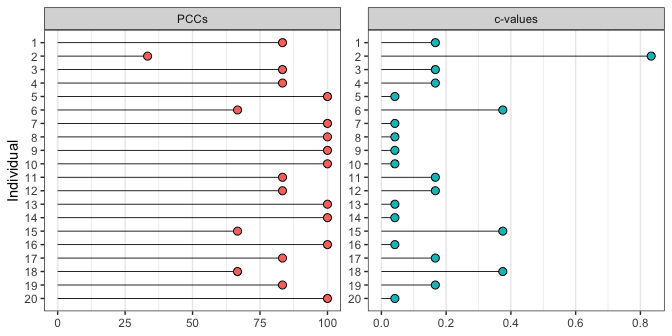
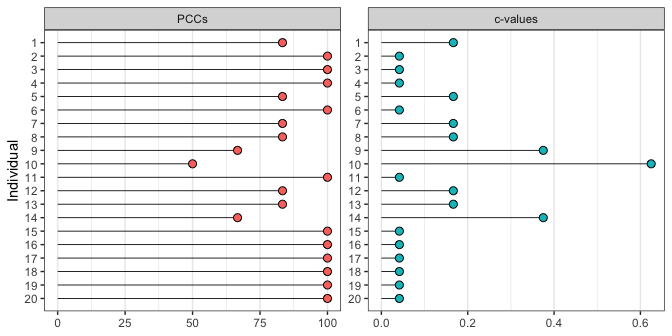
version 0.4.1

diff --git a/README.md b/README.md
@@ -110,26 +110,26 @@ dat <- data.frame(t1 = rnorm(20, mean = 12, sd = 2),
                   
 round(dat, 2)
 #>       t1    t2    t3    t4
-#> 1  12.43 16.39 21.53 14.82
-#> 2  15.53 15.64 15.17 12.37
-#> 3  13.65 14.98 20.52 13.99
-#> 4  13.57 16.42 20.86 15.72
-#> 5  13.78 14.06 19.75 15.97
-#> 6  15.49 12.33 18.99 13.29
-#> 7  12.25 17.65 19.95 17.98
-#> 8  10.79 17.26 23.43 18.16
-#> 9   6.07 12.65 20.89 17.49
-#> 10 10.36 12.70 18.33 17.95
-#> 11 11.54 16.29 21.32 14.61
-#> 12  8.75 14.91 21.72 14.40
-#> 13 13.50 14.65 19.72 17.39
-#> 14  7.71 15.53 20.21 16.93
-#> 15 13.07 21.14 20.35 16.84
-#> 16 11.22 12.52 18.18 15.86
-#> 17 12.83 18.32 20.05 20.54
-#> 18 12.65 18.58 18.01 15.54
-#> 19 12.09 14.27 15.63 20.98
-#> 20 11.12 11.65 19.95 16.68
+#> 1  12.49 18.16 18.76 14.47
+#> 2  10.88 15.39 18.68 16.17
+#> 3  11.96 16.60 19.78 16.75
+#> 4   9.35 12.99 21.88 17.26
+#> 5  13.98 12.20 18.06 16.92
+#> 6  12.84 16.71 18.34 18.34
+#> 7   9.96 14.49 17.07 20.46
+#> 8  12.13 15.54 18.14 14.57
+#> 9   8.85 15.32 14.13 17.38
+#> 10 11.81 17.94 16.55 17.65
+#> 11 11.30 12.79 18.68 17.43
+#> 12 15.29 14.53 19.84 17.54
+#> 13  6.82 16.04 19.50 19.95
+#> 14 13.14 16.23 23.17 12.59
+#> 15  7.88 11.99 22.48 16.64
+#> 16 13.71 14.38 20.54 14.76
+#> 17 13.71 14.88 20.16 17.22
+#> 18  9.94 13.24 21.07 20.81
+#> 19 13.84 13.87 20.78 15.74
+#> 20 14.69 16.51 21.95 17.55
 ```
 
 An ordinal pattern analysis model to consider how the hypothesis `h`
@@ -147,29 +147,29 @@ summary(opamod)
 #> 
 #> Between subjects results:
 #>          PCC cval
-#> pooled 85.83 0.17
+#> pooled 89.17 0.14
 #> 
 #> Within subjects results:
 #>       PCC cval
 #> 1   83.33 0.17
-#> 2   33.33 0.83
-#> 3   83.33 0.17
-#> 4   83.33 0.17
-#> 5  100.00 0.04
-#> 6   66.67 0.38
-#> 7  100.00 0.04
-#> 8  100.00 0.04
-#> 9  100.00 0.04
-#> 10 100.00 0.04
-#> 11  83.33 0.17
+#> 2  100.00 0.04
+#> 3  100.00 0.04
+#> 4  100.00 0.04
+#> 5   83.33 0.17
+#> 6  100.00 0.04
+#> 7   83.33 0.17
+#> 8   83.33 0.17
+#> 9   66.67 0.38
+#> 10  50.00 0.62
+#> 11 100.00 0.04
 #> 12  83.33 0.17
-#> 13 100.00 0.04
-#> 14 100.00 0.04
-#> 15  66.67 0.38
+#> 13  83.33 0.17
+#> 14  66.67 0.38
+#> 15 100.00 0.04
 #> 16 100.00 0.04
-#> 17  83.33 0.17
-#> 18  66.67 0.38
-#> 19  83.33 0.17
+#> 17 100.00 0.04
+#> 18 100.00 0.04
+#> 19 100.00 0.04
 #> 20 100.00 0.04
 #> 
 #> PCCs were calculated for pairwise ordinal relationships using a difference threshold of 0.
@@ -184,15 +184,25 @@ plot(opamod)
 
 <img src="man/figures/README-plot_opamod1-1.png" style="display: block; margin: auto;" />
 
-Pairwise comparisons of conditions are returned by `opa()` and can be
-accessed with the `condition_pccs` method:
+### Pairwise comparison of measurement conditions
+
+Pairwise comparisons of measurement conditions can be calculated by
+applying the `compare_conditions()` function to an `opafit` object
+produced by a call to `opa()`:
 
 ``` r
-opamod$condition_pccs
-#>    2  3  4
-#> 1 95 95 90
-#> 2 NA 85 60
-#> 3 NA NA 90
+condition_comparisons <- compare_conditions(opamod)
+
+condition_comparisons$pccs
+#>    2   3  4
+#> 1 90 100 95
+#> 2 NA  90 80
+#> 3 NA  NA 80
+condition_comparisons$cvals
+#>      2    3     4
+#> 1 0.55 0.50 0.525
+#> 2   NA 0.55 0.600
+#> 3   NA   NA 0.600
 ```
 
 ### Multiple groups
@@ -216,30 +226,30 @@ summary(opamod2)
 #> 
 #> Between subjects results:
 #>     PCC cval
-#> A 93.33 0.09
-#> B 73.33 0.33
-#> C 83.33 0.18
+#> A 83.33 0.18
+#> B 83.33 0.22
+#> C 96.67 0.07
 #> D 93.33 0.09
 #> 
 #> Within subjects results:
 #>   Individual    PCC cval
 #> A          1  83.33 0.17
-#> A          5 100.00 0.04
-#> A          9 100.00 0.04
-#> A         13 100.00 0.04
-#> A         17  83.33 0.17
-#> B          2  33.33 0.83
-#> B          6  66.67 0.38
-#> B         10 100.00 0.04
-#> B         14 100.00 0.04
-#> B         18  66.67 0.38
-#> C          3  83.33 0.17
-#> C          7 100.00 0.04
-#> C         11  83.33 0.17
-#> C         15  66.67 0.38
-#> C         19  83.33 0.17
-#> D          4  83.33 0.17
-#> D          8 100.00 0.04
+#> A          5  83.33 0.17
+#> A          9  66.67 0.38
+#> A         13  83.33 0.17
+#> A         17 100.00 0.04
+#> B          2 100.00 0.04
+#> B          6 100.00 0.04
+#> B         10  50.00 0.62
+#> B         14  66.67 0.38
+#> B         18 100.00 0.04
+#> C          3 100.00 0.04
+#> C          7  83.33 0.17
+#> C         11 100.00 0.04
+#> C         15 100.00 0.04
+#> C         19 100.00 0.04
+#> D          4 100.00 0.04
+#> D          8  83.33 0.17
 #> D         12  83.33 0.17
 #> D         16 100.00 0.04
 #> D         20 100.00 0.04
@@ -256,36 +266,6 @@ plot(opamod2)
 ```
 
 <img src="man/figures/README-plot_opamod2-1.png" style="display: block; margin: auto;" />
-
-Pairwise comparisons of conditions within each group are returned as a
-list and can be accessed with the `condition_pccs` method:
-
-``` r
-opamod2$condition_pccs
-#> $A
-#>     2   3   4
-#> 1 100 100 100
-#> 2  NA 100  80
-#> 3  NA  NA  80
-#> 
-#> $B
-#>    2  3   4
-#> 1 80 80  60
-#> 2 NA 60  60
-#> 3 NA NA 100
-#> 
-#> $C
-#>     2   3   4
-#> 1 100 100 100
-#> 2  NA  80  40
-#> 3  NA  NA  80
-#> 
-#> $D
-#>     2   3   4
-#> 1 100 100 100
-#> 2  NA 100  60
-#> 3  NA  NA 100
-```
 
 ## Acknowledgements
 
